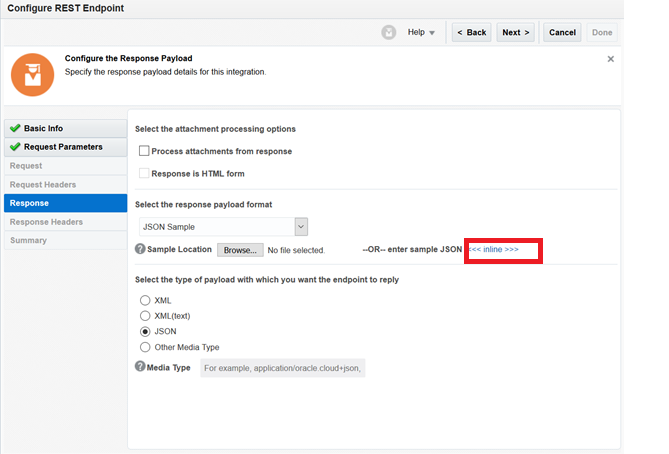
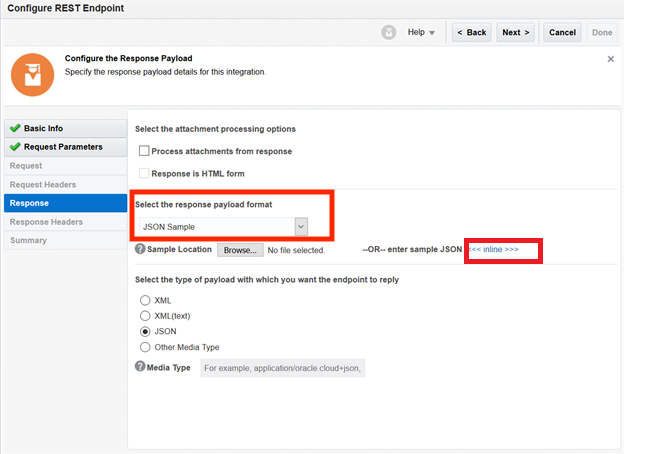
Spelling corrections and updated image img124

Changed region(s): [[0.1794, 0.4009, 0.5082, 0.5551]]

diff --git a/ics300.md b/ics300.md
@@ -94,7 +94,7 @@ _Now we will add two conditional branches in the same flow and test it out_
 
 ![](images/300/img111.png)
 
-**2.12** Finally provide the expression parameter as **CREDIT_CHECK_SUSPENDED** and click on **Validate** button. Your overall page should look like this. 
+**2.12** Finally provide the expression parameter as **"CREDIT_CHECK_SUSPENDED"** and click on **Validate** button. Your overall page should look like this. 
 
 ![](images/300/img112.png)
 
@@ -110,7 +110,7 @@ _Now we will add two conditional branches in the same flow and test it out_
 
 ![](images/300/img115.png)
 
-**2.16** Mapper page will appear. Expand the response mapper as shown below.
+**2.16** Mapper page will appear. Expand the response mapper by clicking on response link highlighted in red in the below screenshot.
 
 ![](images/300/img116_1.png)
 
@@ -142,8 +142,9 @@ Your overall setup should look like this. This completes our one - **if else** l
 
 **2.22** A new page will come up. Provide the below details as marked in red. 
 
-What do you want to call your endpoint? - **DeclinePayment**
-What is the endpoint's relative resource URI? - **/payment**
+- What do you want to call your endpoint? - **DeclinePayment**
+
+- What is the endpoint's relative resource URI? - **/payment**
 
 Once done, click **Next**.
 
@@ -154,6 +155,7 @@ Once done, click **Next**.
 Parameters to be added: 
 - **OrderId**
 - **PaymentAction**
+
 ![](images/300/img123.png)
 
 **2.24** This is the section where we need to select Response mapping. Select **JSON Sample** and click **Inline** section as marked in red.
